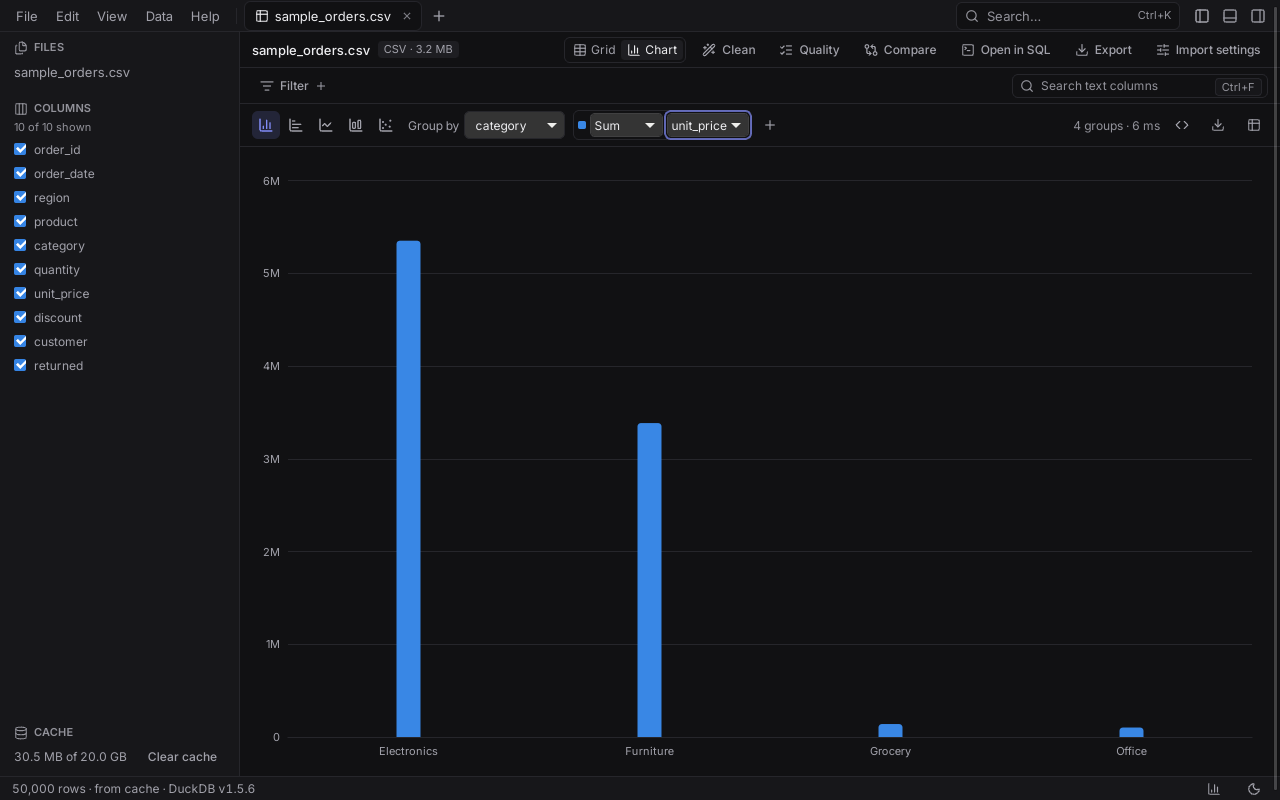
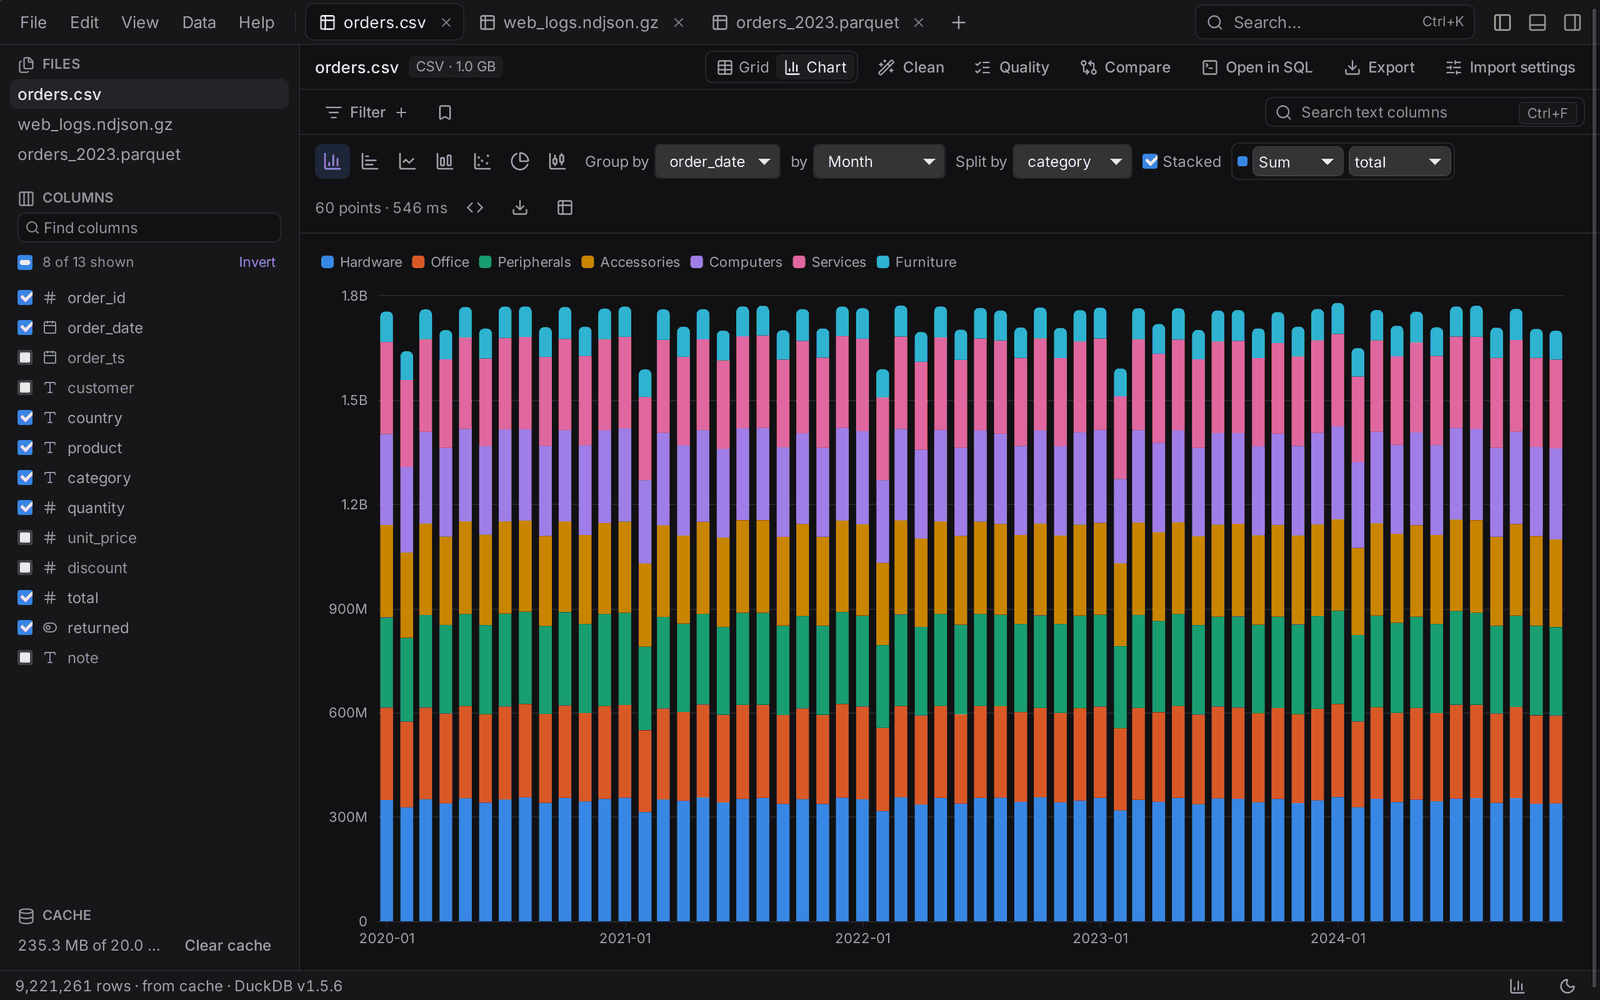
docs: website link and new screenshots in the README, decision D75
The README's screenshots are replaced by captures of the current app
(a 9.2-million-row CSV with a column profile, filters and search, SQL,
a chart in the dark theme, the JSON graph) and link to the website.

diff --git a/docs/DECISIONS.md b/docs/DECISIONS.md
@@ -1148,3 +1148,36 @@ the real app on CI is the remaining gap (30.3 in the improvement list).
 The same run showed the grid empty in development builds: React's
 StrictMode mounts, unmounts and mounts again, which disposed the grid's
 row source for good. The source can be opened again.
+
+## D75 — The website: static files, real screenshots, releases looked up in the browser
+
+The product site lives in `website/` and is published to GitHub Pages by a
+workflow that uploads the folder as it is. It is plain HTML, CSS and
+JavaScript modules: a page of this size needs no framework, and with no
+build step the folder can be opened and edited by anyone.
+
+- **Screenshots are the real app.** They were taken by driving the app
+  itself (not the UI over a mocked backend) through WebKitGTK's WebDriver
+  under Xvfb at 2× scale, with a 1 GB CSV of 9.2 million rows and a
+  2-million-record NDJSON file. Numbers quoted on the page (rows, timings)
+  are the ones visible in those screenshots, and the benchmark figures are
+  the README's. Driving the real app is also what found the commands
+  missing from the permission lists (D74).
+- **Desktop only in what it shows.** The app is presented in desktop
+  window frames; there are no phone or tablet mock-ups. The page layout
+  still adapts to every screen width, and on a phone the download button
+  says the app is for desktop instead of offering an installer.
+- **Nothing about a release is written in the page.** The latest release
+  comes from the GitHub Releases API in the visitor's browser: its version,
+  date, files and notes. Files are matched to systems by name (the names in
+  `docs/RELEASING.md`), only links to GitHub are offered, and the notes
+  (asked for as HTML rendered by GitHub, since a release body can be
+  Markdown or pasted HTML) are rebuilt from an allow-list of tags. A
+  release without a build for a system, no release at all, a rate limit and
+  no network each have their own message. A test fails if a version or a
+  download link is ever typed into the page.
+- **Privacy matches the app's.** Fonts and images are served from the
+  site; the one outside request is the GitHub API call.
+- **It works without scripts and without motion**: content and a download
+  link are in the HTML, animations start hidden only when scripts run, and
+  `prefers-reduced-motion` turns them off.

diff --git a/README.md b/README.md
@@ -16,6 +16,7 @@ second. Browse, filter, chart, clean and export millions of rows on **Windows**,
 ![Linux](https://img.shields.io/badge/Linux-x64-FCC624?logo=linux&logoColor=black)
 [![License: MIT](https://img.shields.io/badge/license-MIT-22c55e)](LICENSE)
 
+[**Website**](https://mukesh-devs.github.io/dataliq/) ·
 [**⬇ Download**](https://github.com/Mukesh-devs/dataliq/releases/latest) ·
 [**Features**](#features) ·
 [**Installation**](#installation) ·
@@ -25,13 +26,17 @@ second. Browse, filter, chart, clean and export millions of rows on **Windows**,
 
 <br>
 
-![A CSV file open in the grid, with the profile of its unit_price column](docs/screenshots/grid-light.png)
+![A 1 GB CSV file of 9.2 million rows open in the grid, with the profile of its total column and the sum of the selected cells](docs/screenshots/grid-light.png)
 
-| SQL over every open file | Charts of millions of rows |
+| Filter, sort and search | SQL over every open file |
 | --- | --- |
-| ![The SQL panel: a grouped query over the open file and its 20 result rows](docs/screenshots/sql-light.png) | ![A bar chart of the sum of unit_price by category, in the dark theme](docs/screenshots/chart-dark.png) |
+| ![Two filters, a sort and a search narrowing 9.2 million rows to 23,323 in about a second](docs/screenshots/filters-light.png) | ![The SQL panel: a grouped query over 9.2 million rows and its seven result rows, in 79 ms](docs/screenshots/sql-light.png) |
 
-<p align="center"><sub>The screenshots show the built-in sample dataset (Help › Open the sample dataset).</sub></p>
+| Charts of millions of rows | A graph view for JSON |
+| --- | --- |
+| ![A stacked bar chart of the sum of total by month and category, in the dark theme](docs/screenshots/chart-dark.png) | ![A JSON record drawn as connected cards, with a nested value selected](docs/screenshots/json-graph-light.png) |
+
+<p align="center"><sub>Screenshots of the app with a 1 GB CSV of 9.2 million rows and a 2-million-record NDJSON log (generated test files). More on the <a href="https://mukesh-devs.github.io/dataliq/">website</a>.</sub></p>
 
 ## Features
 

diff --git a/CHANGELOG.md b/CHANGELOG.md
@@ -6,6 +6,12 @@ All notable changes to this project are documented here. The format follows
 
 ## [Unreleased]
 
+### Added
+
+- A website for DataLiq (`website/`, published with GitHub Pages): what the app does, shown
+  with real screenshots, and downloads for Windows, macOS and Linux that always point at the
+  latest release.
+
 ### Changed
 
 - A new app icon: the letter D made of a table's cells, one highlighted, on a dark tile.
